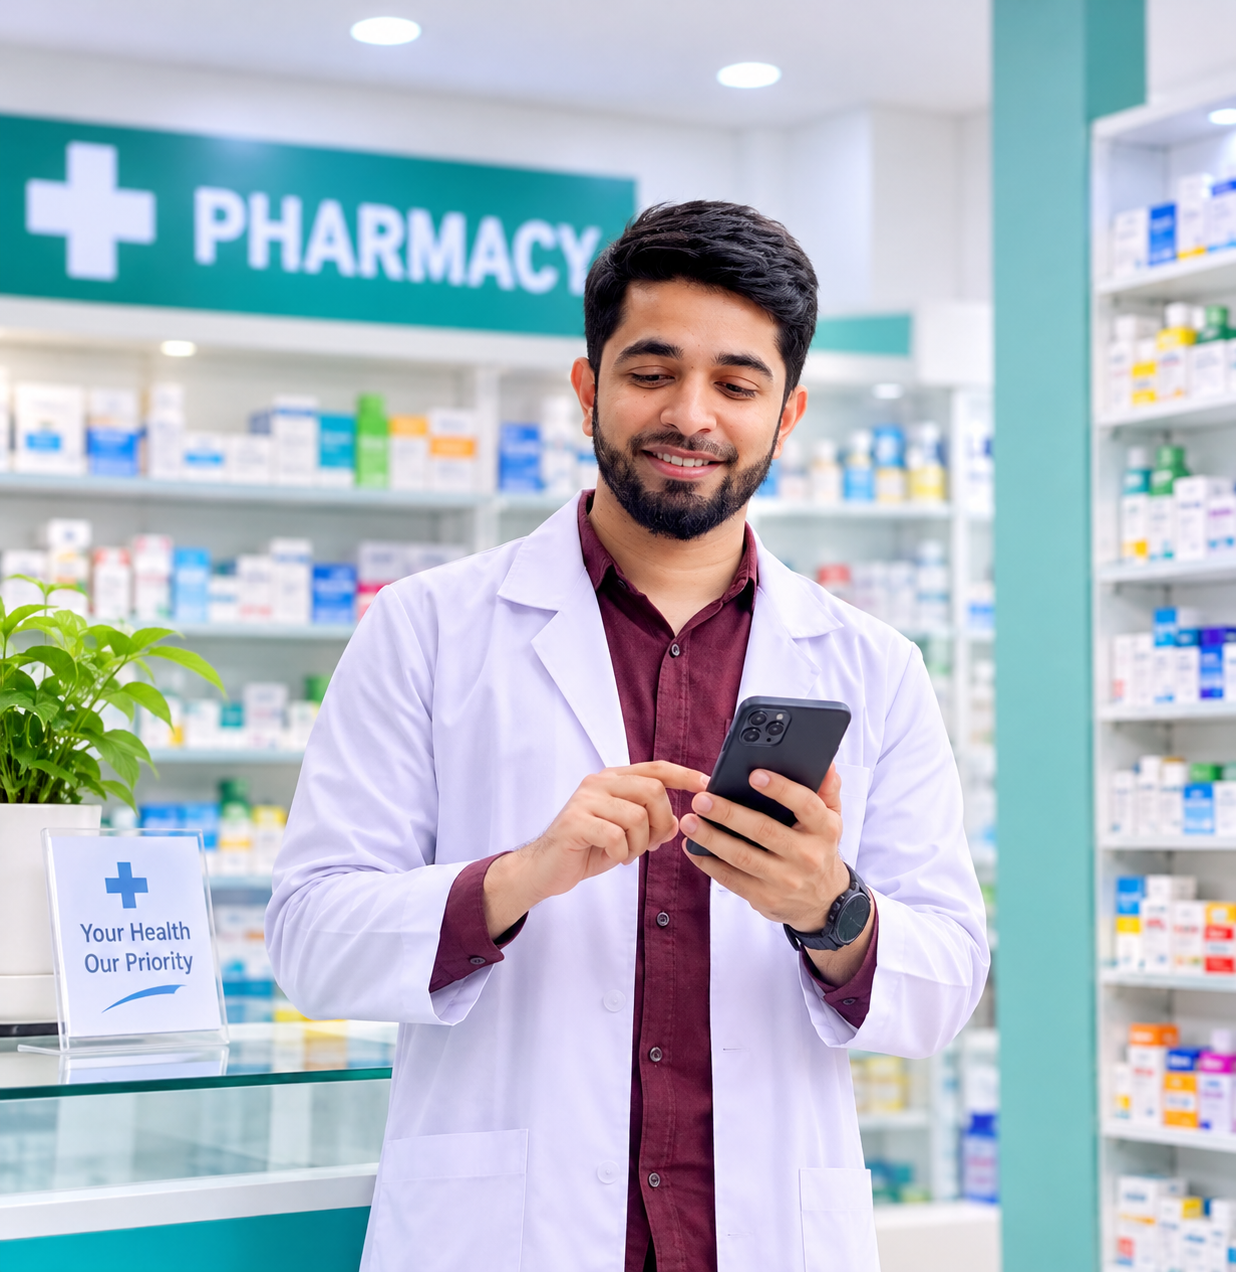
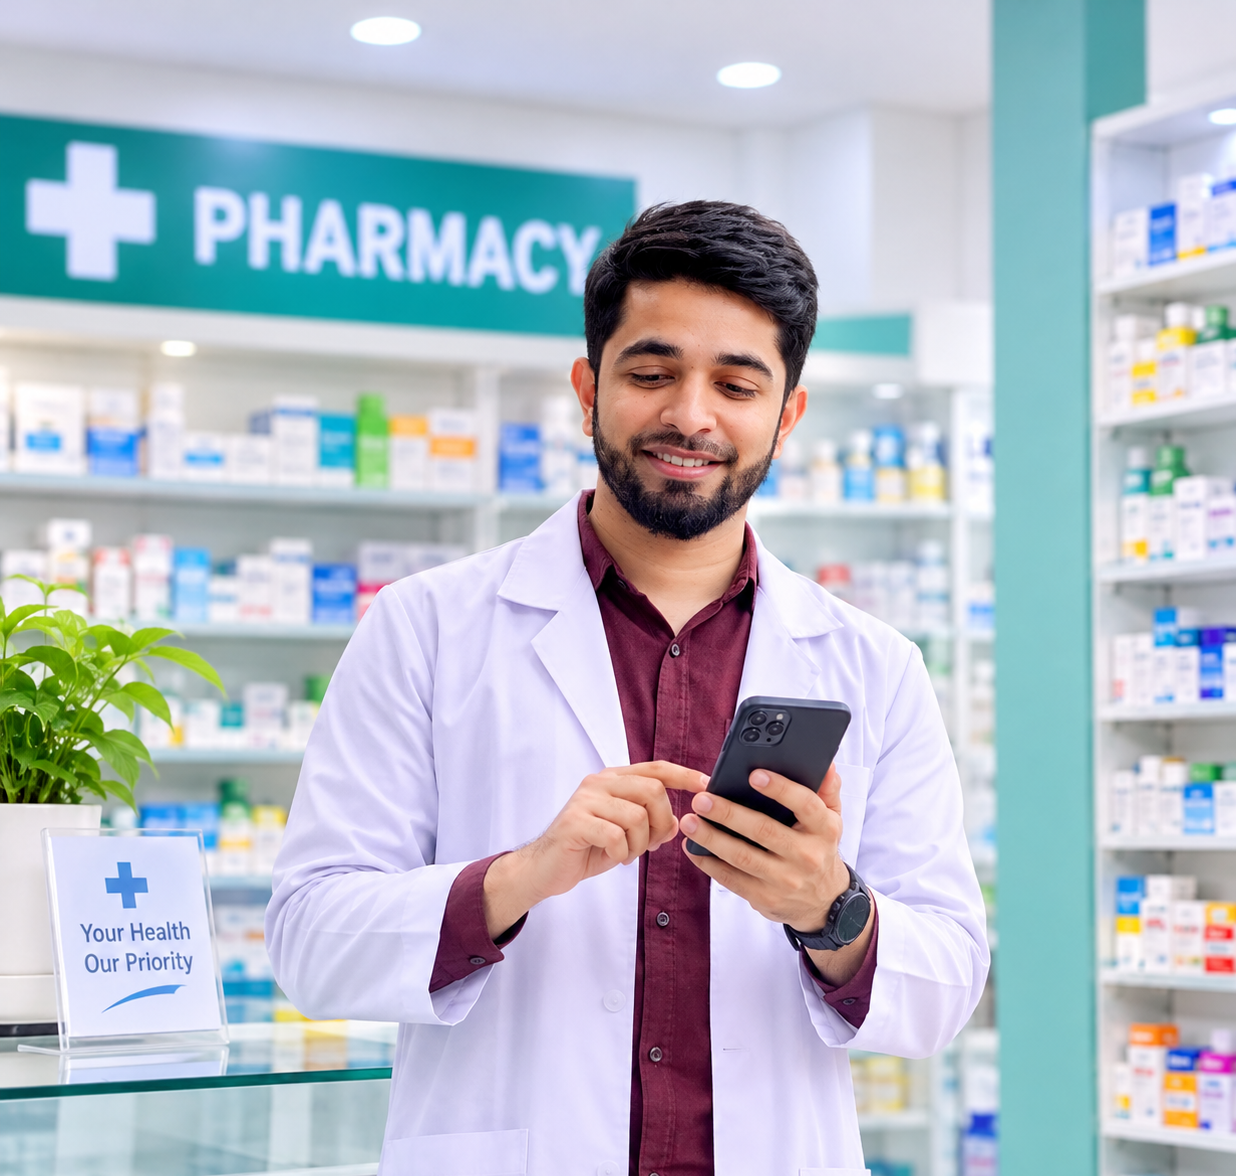
home page button premium look

diff --git a/app/page.js b/app/page.js
@@ -559,9 +559,10 @@ export default function Home() {
                 <div
                   style={{
                     display: "flex",
+                    flexDirection: isMobile ? "column" : "row",
                     flexWrap: "wrap",
                     justifyContent: "space-between",
-                    alignItems: "center",
+                    alignItems: isMobile ? "stretch" : "center",
                     gap: "10px",
                     marginTop: "16px",
                   }}
@@ -571,26 +572,61 @@ export default function Home() {
                     style={{
                       margin: 0,
                       fontSize: isMobile ? "13px" : "14px",
+                      display: "inline-flex",
+                      alignItems: "center",
+                      justifyContent: isMobile ? "center" : "flex-start",
+                      gap: "4px",
                     }}
                   >
                     ডিটেইলস দেখুন <span>→</span>
                   </span>
+
+                  {/* Premium Original "➕ নাই? সিলেক্ট করুন" Button */}
                   <button
                     type="button"
                     onClick={(e) => handleAddToNotification(e, med)}
                     style={{
-                      background: "#eff6ff",
-                      color: "#2563eb",
-                      border: "1px solid #dbeafe",
-                      padding: isMobile ? "6px 10px" : "7px 12px",
-                      borderRadius: "9px",
-                      fontSize: "12px",
-                      fontWeight: "600",
+                      background:
+                        "linear-gradient(135deg, #eff6ff 0%, #dbeafe 100%)",
+                      color: "#1d4ed8",
+                      border: "1px solid #93c5fd",
+                      padding: isMobile ? "8px 12px" : "8px 14px",
+                      borderRadius: "11px",
+                      fontSize: isMobile ? "12.5px" : "13px",
+                      fontWeight: "700",
                       cursor: "pointer",
                       whiteSpace: "nowrap",
+                      display: "inline-flex",
+                      alignItems: "center",
+                      justifyContent: "center",
+                      gap: "6px",
+                      boxShadow:
+                        "0 4px 12px -3px rgba(37, 99, 235, 0.22), inset 0 1px 0 rgba(255, 255, 255, 0.8)",
+                      transition: "all 0.18s ease",
+                      width: isMobile ? "100%" : "auto",
+                      boxSizing: "border-box",
                     }}
                   >
-                    ➕ নাই? সিলেক্ট করুন
+                    <span
+                      style={{
+                        width: "18px",
+                        height: "18px",
+                        borderRadius: "6px",
+                        background:
+                          "linear-gradient(135deg, #2563eb 0%, #1d4ed8 100%)",
+                        color: "#ffffff",
+                        display: "inline-flex",
+                        alignItems: "center",
+                        justifyContent: "center",
+                        fontSize: "13px",
+                        fontWeight: "800",
+                        lineHeight: 1,
+                        flexShrink: 0,
+                      }}
+                    >
+                      +
+                    </span>
+                    <span>নাই? সিলেক্ট করুন</span>
                   </button>
                 </div>
               </Link>
